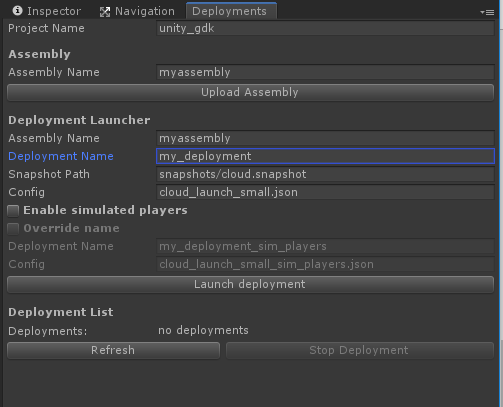
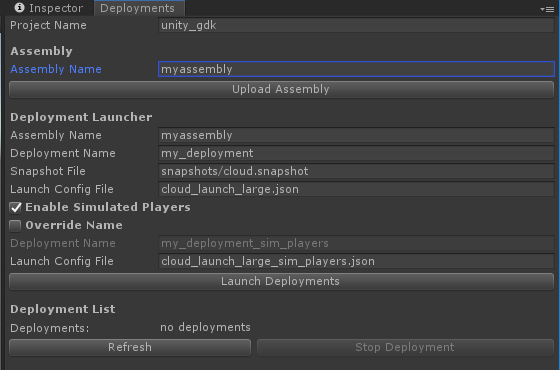
window tweaks

diff --git a/docs/content/get-started/upload-launch.md b/docs/content/get-started/upload-launch.md
@@ -76,8 +76,8 @@ The next step is to [start a cloud deployment](https://docs.improbable.io/refere
 
 * **Assembly Name** - this identifies the worker assemblies to use. 
 * **Deployment Name** - this labels your deployment in the SpatialOS web Console.
-* **Snapshot Path** - this specifies which snapshot file the deployment uses. A snapshot declares the state of the world as the deployment starts.
-* **Config** - this is the deployment's launch configuration `.json` file which declares the world and load balancing configuration.
+* **Snapshot File** - this specifies which snapshot file the deployment uses. A snapshot declares the state of the world as the deployment starts.
+* **Launch Config File** - this is the deployment's launch configuration `.json` file which declares the world and load balancing configuration.
 
 <br/>
 To launch your cloud deployment:
@@ -89,14 +89,14 @@ First enter the parameters in the Deployment Launcher section of the Deployment 
 |-----|------|
 |**Assembly Name**| The name you gave the assembly in step 2 - for example; `myassembly`. <br/>(The name needs to conform to the following regex: `[a-zA-Z0-9_.-]{5,64}`.)|
 |**Deployment Name**| A name of your choice - for example; `shootyshooty`. <br/>(The name needs to conform to the following regex: `[a-z0-9_]{2,32}`.)|
-|**Snapshot Path**|`snapshots/cloud.snapshot`
-|**Config** | `cloud_launch_large.json`.|
-|**Enable simulated players**| Ensure this is checked.|
-|**Override name**| Leave this checkbox UNchecked.|
+|**Snapshot File**|`snapshots/cloud.snapshot`<br/>Note that this is a relative path from the root of your SpatialOS Project.|
+|**Launch Config File** | `cloud_launch_large.json`<br/>Note that this is a relative path from the root of your SpatialOS Project.|
+|**Enable Simulated Players**| Ensure this is checked.|
+|**Override Name**| Leave this checkbox UNchecked.|
 |**Deployment Name**<br/> (The second Deployment Name listed)| Do not edit this field.|
-|**Config**<br/> (The second Config listed)|`cloud_launch_large_sim_players.json`|
+|**Launch Config File**<br/> (The second Config listed)|`cloud_launch_large_sim_players.json`<br/>Note that this is a relative path from the root of your SpatialOS Project.|
 
-![]({{assetRoot}}assets/deployment-window-end.png)
+![]({{assetRoot}}assets/deployment-window.png)
 <br/>_Example completed Deployments window_
 <br/>
 <br/>
